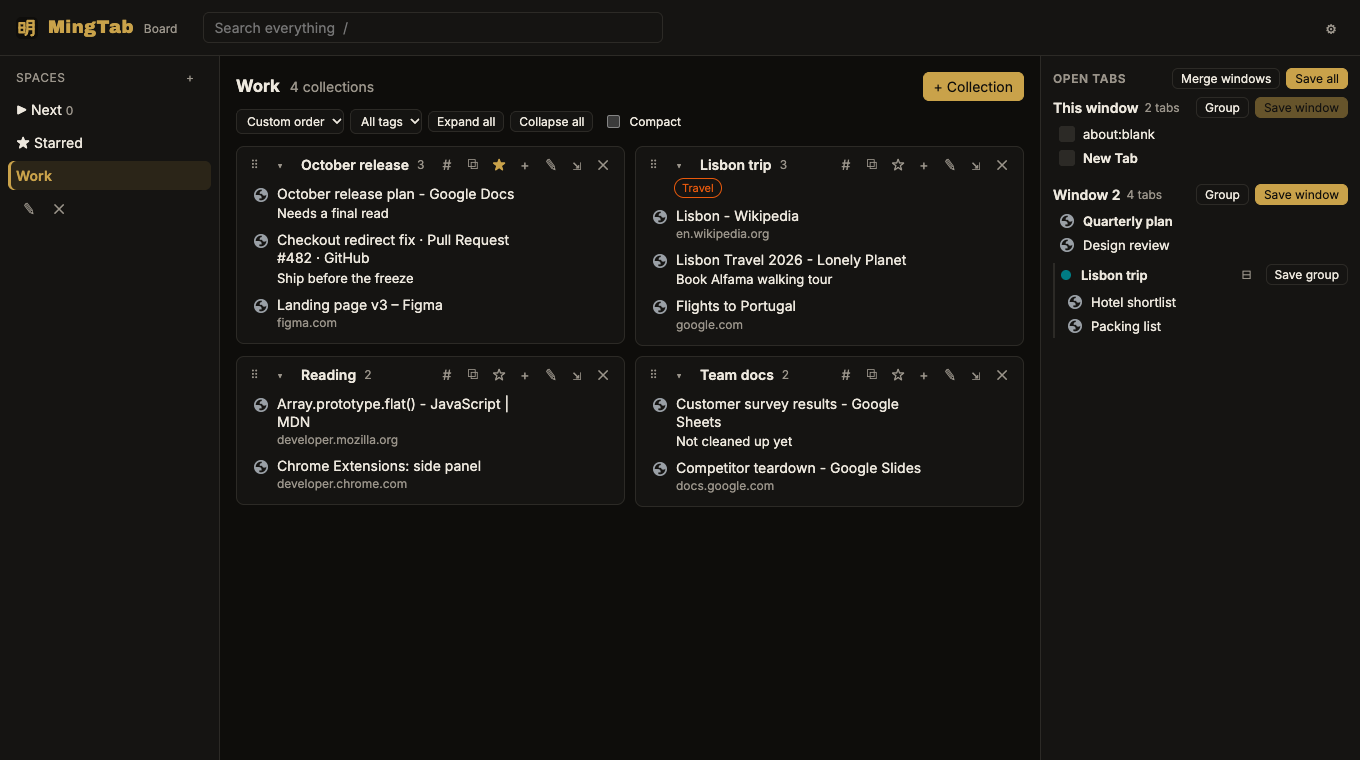
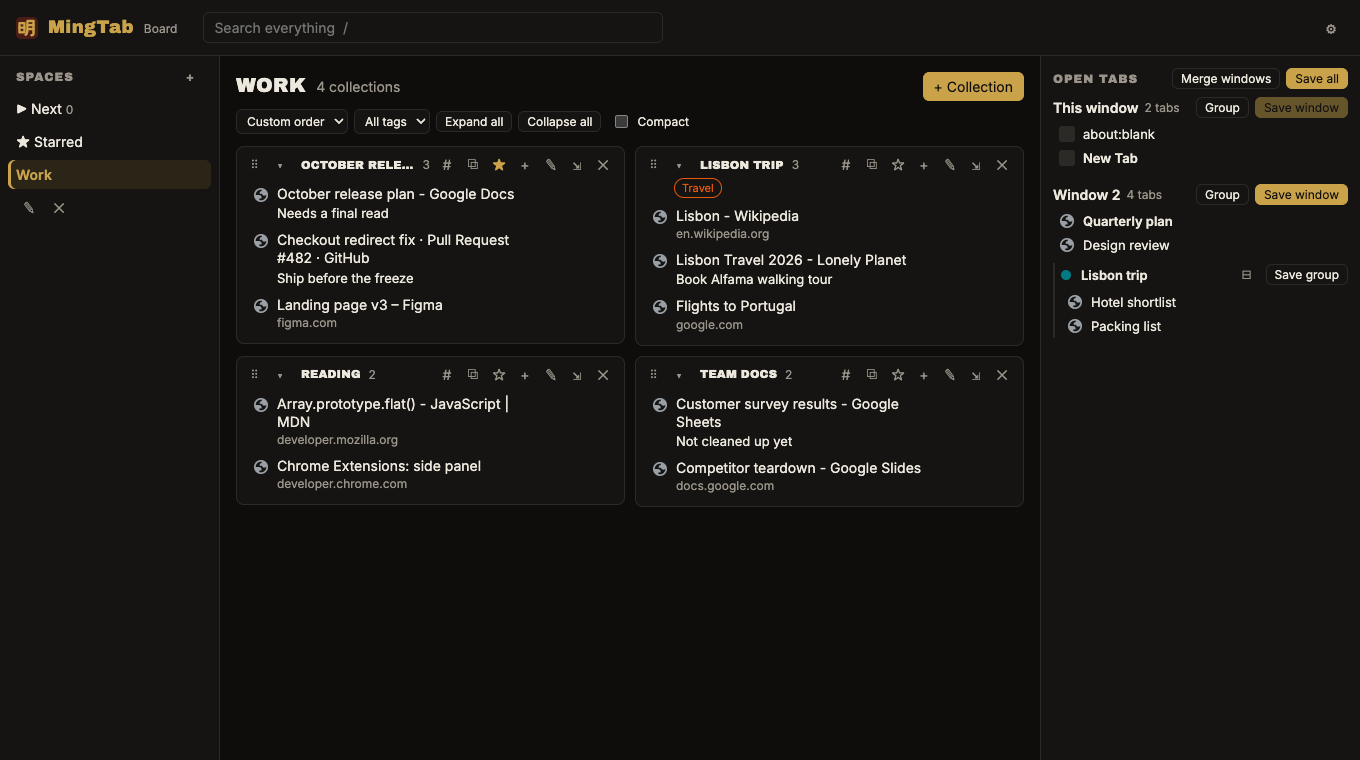
feat: brand headlines — Archivo Black capitals for space names, collection titles and section labels
Option B from branding/type/ (Keith's pick). Only the shown collection title is capitalised; the
rename box keeps ordinary type. Collection titles show in full on hover. README screenshots retaken.

diff --git a/src/app/app.css b/src/app/app.css
@@ -331,9 +331,10 @@ a {
   align-items: center;
   padding: 0 8px 8px;
   color: var(--muted);
+  font-family: var(--fo-font-display);
   font-size: 12px;
   text-transform: uppercase;
-  letter-spacing: 0.05em;
+  letter-spacing: 0.08em;
 }
 
 .sidebar ul {
@@ -397,9 +398,14 @@ a {
   margin-bottom: 12px;
 }
 
+/* Headlines are Archivo Black in capitals, as on fourounces.live; text stays Inter. */
 .space-toolbar h2 {
   margin: 0;
-  font-size: 17px;
+  font-family: var(--fo-font-display);
+  font-weight: 400;
+  font-size: 20px;
+  text-transform: uppercase;
+  letter-spacing: 0.02em;
 }
 
 .space-toolbar button {
@@ -442,6 +448,15 @@ a {
 .collection-title {
   font-weight: 600;
   flex: 0 1 auto;
+}
+
+/* The shown title only: the rename box keeps ordinary type, so what you type looks as typed. */
+.inline-edit.collection-title {
+  font-family: var(--fo-font-display);
+  font-weight: 400;
+  font-size: 11.5px;
+  text-transform: uppercase;
+  letter-spacing: 0.01em;
 }
 
 .collection-actions {
@@ -661,11 +676,12 @@ button:disabled {
 
 .pane-title {
   margin: 0 0 8px;
+  font-family: var(--fo-font-display);
   font-size: 12px;
-  font-weight: 600;
+  font-weight: 400;
   color: var(--muted);
   text-transform: uppercase;
-  letter-spacing: 0.05em;
+  letter-spacing: 0.08em;
 }
 
 .pane-status {

diff --git a/src/app/InlineEdit.tsx b/src/app/InlineEdit.tsx
@@ -41,6 +41,8 @@ export function InlineEdit({
         type="button"
         className={`inline-edit ${className ?? ''}`}
         aria-label={`${label}: ${value || placeholder || ''}. Click to edit`}
+        // The full text on hover, for titles cut short by their column.
+        title={value || undefined}
         onClick={() => {
           setDraft(value);
           setEditing(true);

diff --git a/CHANGELOG.md b/CHANGELOG.md
@@ -3,6 +3,14 @@
 What's new in each MingTab release. Downloads and install steps are on the
 [Releases](https://github.com/kratner/mingtab/releases) page.
 
+## Unreleased
+
+### Changed
+
+- **Brand headlines.** The space name, collection titles and the Spaces and Open tabs labels are set in
+  Archivo Black capitals, as on fourounces.live. Everything else stays in Inter. Hover a collection title
+  to see it in full when it's cut short; renaming one still shows your text as you type it.
+
 ## 0.9.0 — 2026-10-25
 
 ### New
